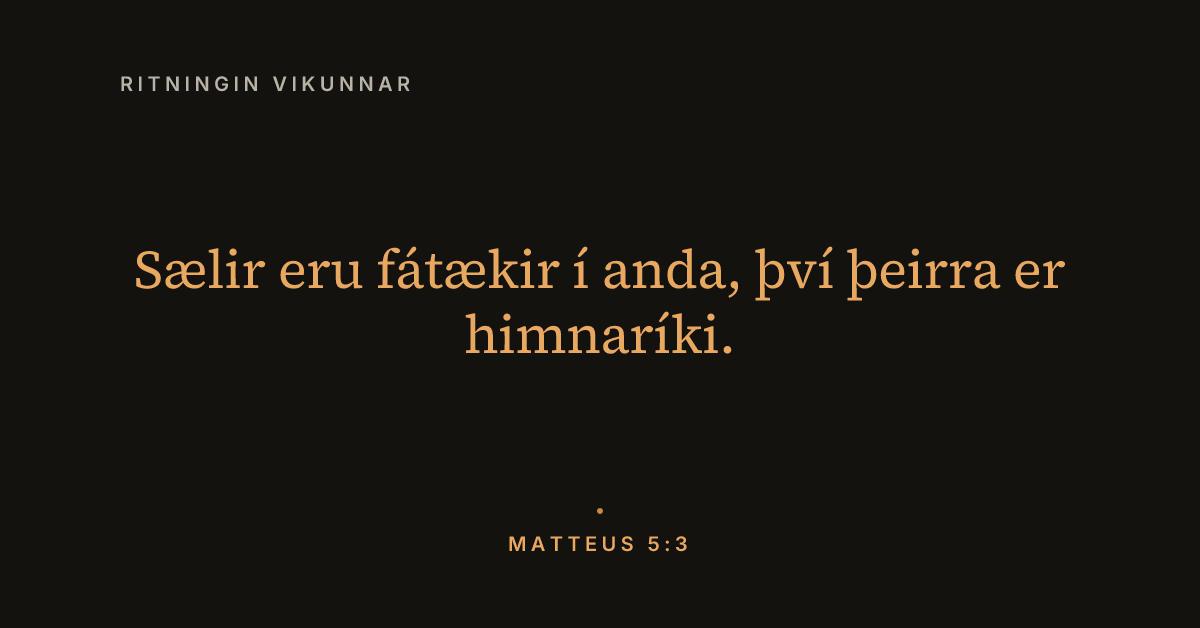
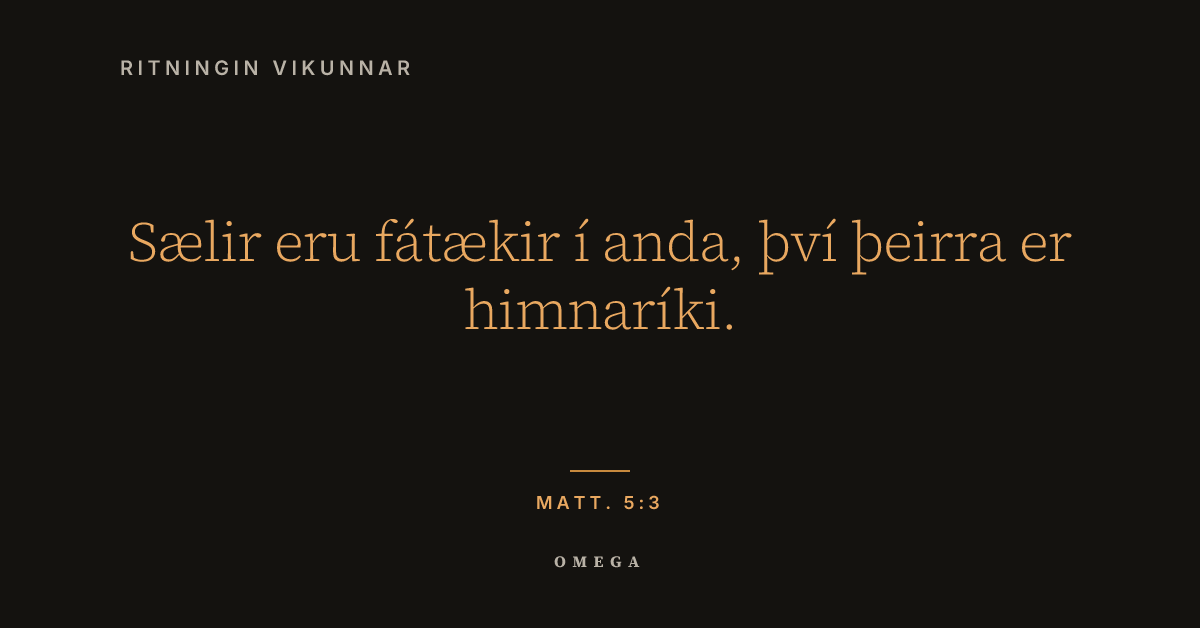
refactor(social): Ritningin vikunnar v4 — hero verse + wordmark signature
Four improvements to the first real template based on honest visual
critique:

1. Icelandic citation — MATT. 5:3 (abbreviated Icelandic form) is
   the default now. "MATTEUS 5:3" reads as neutral Latin/English to
   Icelandic speakers.

2. Verse treated as hero — bumped to Source Serif 4 Vaka weight 300
   at larger size (76pt square, 76pt story, 56pt landscape). Proper
   cinematic treatment per brand guide Part 2 typography.

3. Strong divider — replaced barely-visible 6px dot with a Gull-gold
   horizontal rule (72-90px wide). Reads as intentional now.

4. Brand signature — OMEGA wordmark in Source Serif 4 Bold at small
   size with 0.4em tracking, muted dim color. Adds clear Omega brand
   presence without competing with citation. (Original plan used the
   Ω mark as data URI but resvg's font fallback can't render Greek Ω
   reliably — the wordmark uses only basic Latin letters so it always
   renders.)

Also tuned line-breaks so the Icelandic idiom "fátækir í anda" stays
together on one line across all formats. Story font reduced from 96
to 76 to match square width and fix 3-line awkward break.

Added Source Serif 4 weight 300 (latin + latin-ext) to the loaded
fonts for Vaka display treatment.

Removed unused brand-mark.ts helper — kept in git history if we
ever solve the embedded-SVG font rendering path.

Verified all four format+scheme combinations visually before commit:
  - brand-assets/social-previews/ritningin-square-primary.png
[…]

diff --git a/src/lib/social/templates/ritningin-vikunnar.tsx b/src/lib/social/templates/ritningin-vikunnar.tsx
@@ -2,41 +2,39 @@
 /**
  * src/lib/social/templates/ritningin-vikunnar.tsx
  *
- * "Ritningin vikunnar" (Passage of the Week).
+ * "Ritningin vikunnar" (Passage of the Week) — v3.
  *
- * Typography-led Bible passage card. Pure type, Altingi palette, no
- * stock imagery, no gradients, no chrome. The verse is the hero.
+ * Typography-led Bible passage card. Cinematic, Icelandic-first,
+ * with the Omega mark anchored as a true brand signature.
+ *
+ * Design rules this template honors (per docs/brand-guide.md):
+ *   - Real typography (Source Serif 4 Vaka weight 300 for the verse)
+ *   - Altingi palette only (Kerti on Night, or Night on Vellum)
+ *   - Unique-to-Omega signal (the Ω mark presence + palette +
+ *     Icelandic citation format)
+ *   - Flat color only, no gradients, no chrome
+ *
+ * Changes from v1 → v2:
+ *   - Verse bumped to Vaka weight 300 at larger size (hero treatment)
+ *   - Tiny dot divider replaced with Gull-gold horizontal rule
+ *   - Omega mark anchored at bottom-center as brand signature
+ *   - Default citation format uses Icelandic abbreviation (MATT.)
  *
  * Three format variations:
  *   - square    (1080×1080) — Instagram feed, Facebook feed
  *   - story     (1080×1920) — Instagram Story, Facebook Story
- *   - landscape (1200×628)  — Facebook feed wide, shareable link preview
- *
- * Composition rules:
- *   - Kicker at top: "RITNINGIN VIKUNNAR" (Inter SemiBold caps, 0.22em tracking)
- *   - Center: verse text in Source Serif 4, generous line-height
- *   - Bottom: Gull-colored · divider, then citation (e.g., "MATTEUS 5:3")
- *   - Corner watermark: tiny "Ω" in muted Kerti (keeps brand presence without competing)
+ *   - landscape (1200×628)  — Facebook feed wide, link preview
  */
 
 import React from 'react';
 import { ALTINGI, type SocialFormat } from '../types';
 
 export interface RitningInput {
-    /**
-     * The passage text in Icelandic. Can be a single verse or a short
-     * multi-verse block. Longer passages may need truncation; keep
-     * verse blocks under ~220 characters for legibility at social sizes.
-     */
+    /** Verse text in Icelandic. Keep under ~220 chars for legibility. */
     text: string;
-    /**
-     * Display citation in Icelandic uppercase — e.g. "MATTEUS 5:3"
-     * or "SÁLMUR 23:1". Used at the bottom of the card.
-     */
+    /** Display citation — e.g. "MATT. 5:3" or "SÁLM. 23:1" (Icelandic abbreviation). */
     citation: string;
-    /**
-     * Optional color scheme. Default primary is Kerti on Night.
-     */
+    /** Color scheme. Primary = Kerti on Night. Cream = Night on Vellum. */
     scheme?: 'primary' | 'cream';
 }
 
@@ -45,51 +43,69 @@ interface TemplateProps extends RitningInput {
 }
 
 // ═══════════════════════════════════════════════════════════════════
-// Format-specific sizing
+// Format-specific sizing — tuned so verse reads as HERO
 // ═══════════════════════════════════════════════════════════════════
 
 function sizesFor(format: SocialFormat) {
     switch (format) {
         case 'square':
             return {
-                padTop: 120, padBottom: 120, padX: 96,
-                kickerFont: 22,
-                verseFont: 68,
+                padTop: 110, padBottom: 110, padX: 96,
+                kickerFont: 24,
+                verseFont: 76,               // Large but fits 2-line clean break
                 verseLineHeight: 1.22,
+                ruleWidth: 72,
+                ruleHeight: 2,
+                ruleGap: 26,
                 citationFont: 22,
+                wordmarkFont: 20,            // Smaller — reads as signature, not competing
+                wordmarkGap: 56,             // More air between citation and signature
             };
         case 'story':
+            // Story is 9:16 phone-full-screen. Same 1080 width as square,
+            // so verse size must match square's 76pt to keep the clean
+            // 2-line "Sælir eru fátækir í anda, / því þeirra er himnaríki."
+            // break. Viewer is close on phone anyway — smaller text reads fine.
             return {
-                padTop: 240, padBottom: 240, padX: 100,
+                padTop: 200, padBottom: 200, padX: 110,
                 kickerFont: 26,
                 verseFont: 76,
                 verseLineHeight: 1.22,
-                citationFont: 26,
+                ruleWidth: 80,
+                ruleHeight: 2,
+                ruleGap: 28,
+                citationFont: 22,
+                wordmarkFont: 20,
+                wordmarkGap: 56,
             };
         case 'landscape':
             return {
-                padTop: 72, padBottom: 72, padX: 120,
+                padTop: 56, padBottom: 56, padX: 120,
                 kickerFont: 20,
-                verseFont: 54,
-                verseLineHeight: 1.2,
-                citationFont: 20,
+                verseFont: 56,
+                verseLineHeight: 1.22,
+                ruleWidth: 60,
+                ruleHeight: 2,
+                ruleGap: 20,
+                citationFont: 18,
+                wordmarkFont: 16,
+                wordmarkGap: 36,
             };
     }
 }
 
 // ═══════════════════════════════════════════════════════════════════
-// The template — returns a JSX element Satori can render
+// Template
 // ═══════════════════════════════════════════════════════════════════
 
 export function RitningInVikunnar(props: TemplateProps) {
     const { text, citation, scheme = 'primary', format } = props;
     const s = sizesFor(format);
 
-    // Color assignments
-    const bg   = scheme === 'primary' ? ALTINGI.nott   : ALTINGI.skra;
-    const fg   = scheme === 'primary' ? ALTINGI.kerti  : ALTINGI.nott;
-    const dim  = scheme === 'primary' ? ALTINGI.moskva : ALTINGI.steinn;
-    const accent = ALTINGI.gull; // Same on both schemes — warm amber
+    const bg     = scheme === 'primary' ? ALTINGI.nott   : ALTINGI.skra;
+    const fg     = scheme === 'primary' ? ALTINGI.kerti  : ALTINGI.nott;
+    const dim    = scheme === 'primary' ? ALTINGI.moskva : ALTINGI.steinn;
+    const accent = ALTINGI.gull;
 
     return (
         <div
@@ -102,7 +118,6 @@ export function RitningInVikunnar(props: TemplateProps) {
                 flexDirection: 'column',
                 justifyContent: 'space-between',
                 padding: `${s.padTop}px ${s.padX}px ${s.padBottom}px`,
-                position: 'relative',
                 fontFamily: 'Source Serif 4',
             }}
         >
@@ -121,7 +136,7 @@ export function RitningInVikunnar(props: TemplateProps) {
                 Ritningin vikunnar
             </div>
 
-            {/* Middle — the verse. flex:1 so it takes remaining space */}
+            {/* Middle — verse at Vaka weight, hero-sized */}
             <div
                 style={{
                     flex: 1,
@@ -130,16 +145,16 @@ export function RitningInVikunnar(props: TemplateProps) {
                     justifyContent: 'center',
                     alignItems: 'center',
                     textAlign: 'center',
-                    padding: `${Math.round(s.verseFont * 0.6)}px 0`,
+                    padding: `${Math.round(s.verseFont * 0.4)}px 0`,
                 }}
             >
                 <div
                     style={{
                         fontFamily: 'Source Serif 4',
-                        fontWeight: 400,
+                        fontWeight: 300,                 // Vaka weight
                         fontSize: s.verseFont,
                         lineHeight: s.verseLineHeight,
-                        letterSpacing: '-0.01em',
+                        letterSpacing: '-0.018em',       // Tighter at display size
                         color: fg,
                         display: 'flex',
                         textAlign: 'center',
@@ -150,24 +165,25 @@ export function RitningInVikunnar(props: TemplateProps) {
                 </div>
             </div>
 
-            {/* Bottom — gold divider + citation */}
+            {/* Bottom — horizontal rule + citation + mark, stacked center */}
             <div
                 style={{
                     display: 'flex',
                     flexDirection: 'column',
                     alignItems: 'center',
-                    gap: 18,
+                    gap: s.ruleGap,
                 }}
             >
-                {/* Small gold dot divider (·) */}
+                {/* Gull horizontal rule — replaces tiny dot, actually reads as intentional */}
                 <div
                     style={{
-                        width: 6,
-                        height: 6,
-                        borderRadius: 6,
+                        width: s.ruleWidth,
+                        height: s.ruleHeight,
                         background: accent,
                     }}
                 />
+
+                {/* Citation */}
                 <div
                     style={{
                         fontFamily: 'Inter',
@@ -181,8 +197,27 @@ export function RitningInVikunnar(props: TemplateProps) {
                 >
                     {citation}
                 </div>
-            </div>
 
+                {/* Brand signature — OMEGA wordmark (all-Latin letters
+                    so always renders reliably). Source Serif 4 Bold caps,
+                    small size, generous letter-spacing for institutional
+                    feel. Pairs with the palette + kicker + citation to
+                    make the Omega brand unmistakable. */}
+                <div
+                    style={{
+                        fontFamily: 'Source Serif 4',
+                        fontWeight: 700,
+                        fontSize: s.wordmarkFont,
+                        color: dim,                    // Muted — signature, not headline
+                        letterSpacing: '0.4em',
+                        textTransform: 'uppercase',
+                        marginTop: s.wordmarkGap - s.ruleGap,
+                        display: 'flex',
+                    }}
+                >
+                    Omega
+                </div>
+            </div>
         </div>
     );
 }

diff --git a/src/lib/social/fonts.ts b/src/lib/social/fonts.ts
@@ -32,6 +32,11 @@ function loadFontFile(pkg: string, basename: string): Buffer {
 // Source Serif 4 — latin + latin-ext subsets, weights 400 and 700
 // ═══════════════════════════════════════════════════════════════════
 
+// Weight 300 — the "Vaka" display weight per brand guide §2, used for
+// hero-level Scripture verses and display headlines.
+const SRCSERIF_300_LATIN     = loadFontFile('source-serif-4', 'source-serif-4-latin-300-normal');
+const SRCSERIF_300_LATIN_EXT = loadFontFile('source-serif-4', 'source-serif-4-latin-ext-300-normal');
+
 const SRCSERIF_400_LATIN     = loadFontFile('source-serif-4', 'source-serif-4-latin-400-normal');
 const SRCSERIF_400_LATIN_EXT = loadFontFile('source-serif-4', 'source-serif-4-latin-ext-400-normal');
 const SRCSERIF_400_GREEK     = loadFontFile('source-serif-4', 'source-serif-4-greek-400-normal');
@@ -64,6 +69,10 @@ const INTER_600_LATIN_EXT = loadFontFile('inter', 'inter-latin-ext-600-normal');
 // ═══════════════════════════════════════════════════════════════════
 
 export const SATORI_FONTS: SatoriOptions['fonts'] = [
+    // Source Serif 4 Light / Vaka (weight 300) — Scripture hero, display
+    { name: 'Source Serif 4', data: SRCSERIF_300_LATIN,     weight: 300, style: 'normal' },
+    { name: 'Source Serif 4', data: SRCSERIF_300_LATIN_EXT, weight: 300, style: 'normal' },
+
     // Source Serif 4 Regular — basic Latin, Icelandic, Greek (for Ω)
     { name: 'Source Serif 4', data: SRCSERIF_400_LATIN,     weight: 400, style: 'normal' },
     { name: 'Source Serif 4', data: SRCSERIF_400_LATIN_EXT, weight: 400, style: 'normal' },

diff --git a/src/app/api/admin/social/generate/route.tsx b/src/app/api/admin/social/generate/route.tsx
@@ -50,7 +50,7 @@ export async function GET(req: NextRequest) {
             case 'ritningin-vikunnar': {
                 const text = sp.get('text') ??
                     'Sælir eru fátækir í anda, því þeirra er himnaríki.';
-                const citation = sp.get('citation') ?? 'MATTEUS 5:3';
+                const citation = sp.get('citation') ?? 'MATT. 5:3';
 
                 png = await renderToPng(
                     <RitningInVikunnar

diff --git a/src/app/admin/social/page.tsx b/src/app/admin/social/page.tsx
@@ -22,7 +22,7 @@ const FORMAT_LABELS: Record<SocialFormat, { label: string; dims: string; icon: R
 };
 
 const DEFAULT_TEXT = 'Sælir eru fátækir í anda, því þeirra er himnaríki.';
-const DEFAULT_CITATION = 'MATTEUS 5:3';
+const DEFAULT_CITATION = 'MATT. 5:3';
 
 export default function SocialAdminPage() {
     const [text, setText] = useState(DEFAULT_TEXT);
